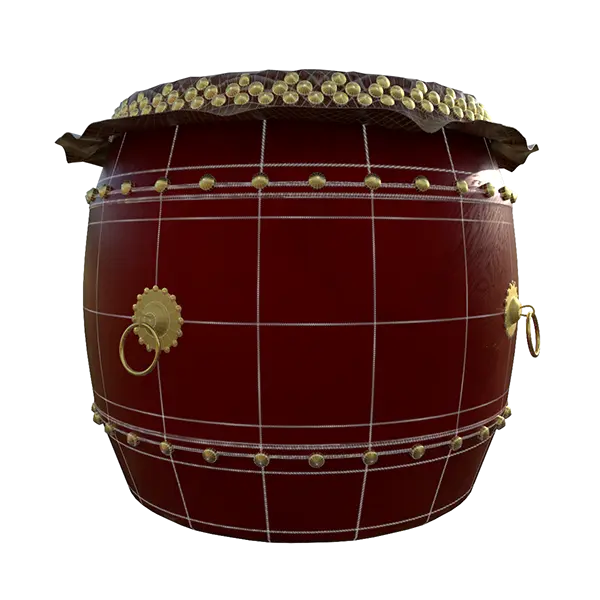
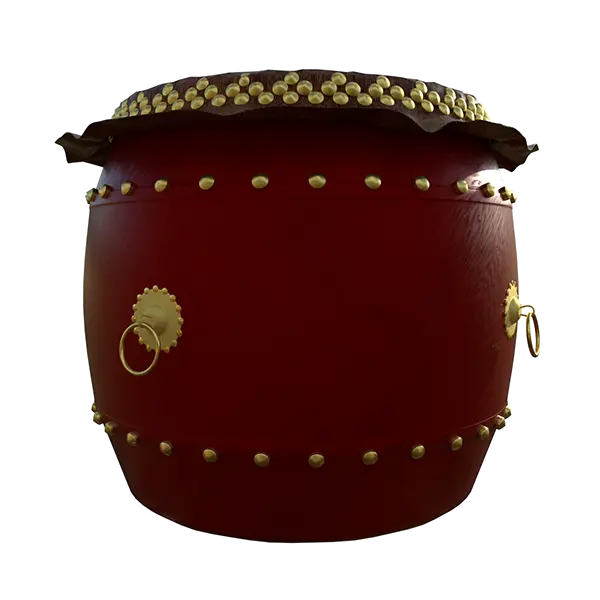
Refresh research statement, asset studies, and project covers

diff --git a/assets/app.js b/assets/app.js
@@ -54,7 +54,7 @@ const threeDProjects = [
     number: "01",
     title: "Still-Life Look Development",
     kicker: "LOOK DEVELOPMENT · RENDERING & SHADING",
-    description: "Still-life look development created as the final project for the Rendering & Shading class taught by Caleb Kicklighter and Jeff Nichols from DreamWorks Animation. Models were provided by the instructors; I developed the materials, lighting, mesh optimization and final presentation.",
+    description: "Still-life look development created as the final project for the Rendering & Shading class taught by Caleb Kicklighter and Jeff Nichols from DreamWorks Animation. Models were provided by the instructors; I developed the materials, lighting, mesh optimization, and final presentation.",
     tags: ["Substance 3D Painter", "Maya", "RenderMan", "Look development"],
     images: [
       ["/assets/3d/01-lookdev-final.webp", "Final warmly lit composition of the still-life scene"],
@@ -126,7 +126,7 @@ const footer = () => `
     <div class="footer-links">
       <a href="mailto:[email redacted]">[email redacted] ${icons.arrow}</a>
       <a href="https://github.com/skylartrangla" target="_blank" rel="noreferrer">GitHub ${icons.arrow}</a>
-      <a href="https://https://www.linkedin.com/in/skylar-trang-la//" target="_blank" rel="noreferrer">LinkedIn ${icons.arrow}</a>
+      <a href="https://www.linkedin.com/in/skylar-trang-la/" target="_blank" rel="noreferrer">LinkedIn ${icons.arrow}</a>
     </div>
     <p class="copyright">© ${new Date().getFullYear()} Skylar Trang La · Designed & coded from scratch</p>
   </footer>`;
@@ -175,7 +175,7 @@ const home = () => `
           <div><p class="project-kicker">DIGITAL TWIN · UX/UI</p><h3>Connected mobility simulation</h3><p>Cesium geospatial context, Unreal Mass AI crowds, and an in-vehicle interface prototype.</p><a class="text-link" href="/digital-twin/#mobility">See project <span>→</span></a></div>
         </article>
         <article class="project-card reveal">
-          ${projectVisual("ar", "Augmented reality coursework", "03")}
+          ${projectCover("/assets/covers/ar-projects.webp", "Three Unity augmented reality projects")}
           <div><p class="project-kicker">AR · UNITY · PHOTOGRAMMETRY</p><h3>Augmented reality studies</h3><p>Three coded AR experiences exploring interaction, spatial composition, and scanned assets.</p><a class="text-link" href="/digital-twin/#ar">See project <span>→</span></a></div>
         </article>
       </div>
@@ -203,18 +203,18 @@ const digitalTwin = () => `
       <div class="page-hero-aside reveal"><p>I prototype real-time systems where data, simulation, 3D environments, and human decisions meet.</p>${tagList(["Unreal Engine / Blueprints Visual Scripting", "Unity / C#", "MQTT / JSON", "Cesium", "Mass AI", "Maya", "Substance Painter"])}</div>
     </section>
     <section class="case-study" id="livestock">
-      ${projectCover("/assets/covers/digital-twin.webp", "BovineTwin sustainable livestock digital twin cover", "case-cover")}
+      ${projectCover("/assets/covers/digital-twin-2.webp", "BovineTwin digital twin development process", "case-cover")}
       <div class="case-layout">
-        <aside class="case-meta reveal"><p>ROLE</p><strong>Graduate Research Assistant<br>Digital Twin Developer</strong><p>CONTEXT</p><strong>AI for Sustainable Livestock System Lab<br>Texas A&M University</strong><p>STATUS</p><strong>Research in progress · 2025 - Present</strong></aside>
+        <aside class="case-meta reveal"><p>ROLE</p><strong>Graduate Research Assistant<br>Digital Twin Developer</strong><p>CONTEXT</p><strong>AI for Sustainable Livestock System Lab<br>Texas A&M University</strong><p>STATUS</p><strong>Research in progress · 2025—Present</strong></aside>
         <article class="case-copy reveal"><p class="eyebrow">CASE STUDY 01</p><h2>Making methane-energy partitioning visible by animal.</h2><p class="lead">BovineTwin combines an individual-level Mesa agent-based model with an interactive Unreal Engine 5.4 feedlot interface.</p><h3>The challenge</h3><p>Herd averages hide which animals drive methane-associated energy loss. The framework calibrates animal-level models and makes individual trajectories and mitigation scenarios inspectable in 3D.</p><h3>My contribution</h3><p>As a shared first author, I contributed conceptualization, methodology, software, data curation, visualization, investigation, writing, supervision, and project administration. I created 3D assets and developed the Unreal Engine interface and the target MQTT–JSON architecture. In this proof of concept, model outputs were transferred through CSV and Unreal DataTables; operational live-sensor validation is future work.</p><div class="process-row"><span>CALIBRATE<small>Individual records</small></span><b>→</b><span>SIMULATE<small>Mesa · Python</small></span><b>→</b><span>VISUALIZE<small>Unreal Engine 5.4</small></span><b>→</b><span>COMPARE<small>Mitigation scenarios</small></span></div>${tagList(["Unreal Engine 5.4", "Mesa / Python", "MQTT / JSON architecture", "CSV / DataTables", "3D Visualization"])}</article>
       </div>
     </section>
     <section class="case-study compact" id="mobility">
-      ${projectCover("/assets/covers/endeavr.webp", "ENDEAVR connected mobility digital twin cover", "case-cover")}
+      ${projectCover("/assets/covers/endeavr-2.webp", "ENDEAVR connected mobility and automotive interface work", "case-cover")}
       <div class="case-layout"><aside class="case-meta reveal"><p>ROLE</p><strong>Digital Design Intern</strong><p>ORGANIZATION</p><strong>ENDEAVR Institute</strong><p>YEAR</p><strong>2025</strong></aside><article class="case-copy reveal"><p class="eyebrow">CASE STUDY 02</p><h2>Connected mobility, from landscape to interface.</h2><p class="lead">An interactive prototype pairing geospatial context and crowd simulation with a three-mode in-vehicle UX concept.</p><p>I imported Google Earth data through Cesium, drew custom movement paths, and simulated crowds with Unreal Mass AI. In parallel, I translated technical requirements into wireframes for Self-driving, AI Training, and AI Driving modes, supported by a cohesive visual language.</p>${tagList(["Unreal Engine", "Cesium", "Mass AI", "UX/UI", "Crowd simulation"])}</article></div>
     </section>
     <section class="case-study compact" id="ar">
-      <div class="case-layout"><aside class="case-meta reveal"><p>FORMAT</p><strong>Three coded assignments</strong><p>FOCUS</p><strong>AR interaction & spatial storytelling</strong><p>MEDIA</p><strong>Three project game</strong></aside><article class="case-copy reveal"><p class="eyebrow">PROJECT COLLECTION 03</p><h2>Augmented reality studies.</h2><p class="lead">A three-part Unity series investigating how digital content can respond to real-world space.</p><p>I programmed the experiences in C# using Unity. The third assignment extends the pipeline with objects captured through photogrammetry, combining asset acquisition, optimization, interaction, and presentation.</p>${tagList(["Unity", "C#", "AR", "Photogrammetry", "Spatial interaction"])}</article></div>
+      <div class="case-layout"><aside class="case-meta reveal"><p>FORMAT</p><strong>Three coded assignments</strong><p>FOCUS</p><strong>AR interaction & spatial storytelling</strong><p>MEDIA</p><strong>Three game projects</strong></aside><article class="case-copy reveal"><p class="eyebrow">PROJECT COLLECTION 03</p><h2>Augmented reality studies.</h2><p class="lead">A three-part Unity series investigating how digital content can respond to real-world space.</p><p>I programmed the experiences in C# using Unity. The third assignment extends the pipeline with objects captured through photogrammetry, combining asset acquisition, optimization, interaction, and presentation.</p>${tagList(["Unity", "C#", "AR", "Photogrammetry", "Spatial interaction"])}</article></div>
       <div class="project-video-grid">
         ${videoCard("MfyWqeeUMc8", "TowAR", "3D AR · UNITY · C#")}
         ${videoCard("lXWZT_A-ezY", "MushJump", "3D AR · UNITY · C#")}
@@ -234,17 +234,17 @@ const generalist = () => `
   <main>
     <section class="page-hero generalist-hero">
       <div class="reveal"><p class="eyebrow">SPECIALIST PORTFOLIO / DIRECT LINK</p><h1>3D<br><em>Generalist</em></h1></div>
-      <div class="page-hero-aside reveal"><p>Gaming and animation environmental assets, built with a full understanding of modelling, UV unwrapping, look development, optimization, and the 3D production pipeline.</p>${tagList(["Unreal Engine", "Maya", "Substance 3D Painter", "3ds Max", "Renderman", "XGen", "Adobe"])}</div>
+      <div class="page-hero-aside reveal"><p>Gaming and animation environmental assets, built with a full understanding of modeling, UV unwrapping, look development, optimization, and the 3D production pipeline.</p>${tagList(["Unreal Engine", "Maya", "Substance 3D Painter", "3ds Max", "RenderMan", "XGen", "Adobe"])}</div>
     </section>
     <section class="section generalist-films">
       <div class="section-heading reveal"><p class="eyebrow">3D GENERALIST FILMS</p><h2>Environment, asset,<br><em>and motion craft.</em></h2></div>
-      <p class="section-intro reveal">Animation, layout, motion-capture, environment, and asset-turntable work - Separated here from the programming and AR films shown in Digital Twin & Interactive.</p>
+      <p class="section-intro reveal">Animation, layout, motion-capture, environment, and asset-turntable work—separated here from the programming and AR films shown in Digital Twin & Interactive.</p>
       <div class="project-video-grid">
         ${videoCard("Iomz45cYaFY", "The Guangdong Lion Dance", "SOLO CREATOR · MAYA · XGEN · SUBSTANCE PAINTER · UNREAL ENGINE · QUICK MAGIC AI · UNITY")}
         ${videoCard("GVcU2PL8bAs", "Shell You Be Mine?", "LAYOUT ARTIST · UNREAL ENGINE")}
         ${videoCard("0BbA_Cn4XRs", "Arrogance vs. Accuracy", "SOLO CREATOR · MOTIONBUILDER · MAYA · UNREAL ENGINE")}
         ${videoCard("qLj_8T69-k8", "Arctic Appetite", "ENVIRONMENT MODELER AND LAYOUT ARTIST · MAYA · SUBSTANCE PAINTER · ADOBE PREMIERE PRO")}
-        ${videoCard("mR1aZ-ybPnw", "The Seal & The Orcas", "ANIMATOR AND COMPOSITION DESIGNER · MAYA  · ADOBE PREMIERE PRO")}
+        ${videoCard("mR1aZ-ybPnw", "The Seal & The Orcas", "ANIMATOR AND COMPOSITION DESIGNER · MAYA · ADOBE PREMIERE PRO")}
       </div>
       <a class="text-link film-playlist-link" href="https://www.youtube.com/playlist?list=PL1tX9HxUBcES6xAiVwDfSMVhmwTR33M7Z" target="_blank" rel="noreferrer">Open full YouTube playlist <span>↗</span></a>
     </section>
@@ -303,7 +303,7 @@ const research = () => `
   <main>
     <section class="page-hero research-hero">
       <div class="reveal"><p class="eyebrow">RESEARCH PRACTICE / 04</p><h1>Research<br><em>& Publications</em></h1></div>
-      <div class="page-hero-aside reveal"><p>I study how real-time 3D visualization and digital twins can be applied in interdisciplinary areas to support humans' lives.</p>${tagList(["Digital twins", "Visualization", "3D", "Simulation", "Applied science"])}</div>
+      <div class="page-hero-aside reveal"><p>I study how real-time 3D visualization and digital twins can be applied across disciplines to support and improve people's lives.</p>${tagList(["Digital twins", "Visualization", "3D", "Simulation", "Applied science"])}</div>
     </section>
     <section class="section publication-list">
       <article class="publication featured-publication reveal">
@@ -325,7 +325,7 @@ const about = () => `
     </section>
     <section class="section about-layout">
       ${projectCover("/images/Portrait.JPG", "Portrait of Skylar La", "portrait-cover reveal")}
-      <div class="about-copy reveal"><p class="eyebrow">ABOUT</p><h2>I translate between<br><em>technical and visual worlds.</em></h2><p class="lead">My path through economics, multimedia, and visualization shaped a practice that combines analytical thinking with hands-on production.</p><p>I hold a Master of Science in Visualization from Texas A&M University, an Advanced Diploma in Multimedia Communications from Arena Multimedia, and a Bachelor’s degree in International Economics from Foreign Trade University. My work experience spans research laboratories, AR production, and university teaching related to 3D field.</p><p>I am particularly interested in digital twin and real-time visualization roles, followed by applied visualization research and focused 3D Generalist opportunities.</p></div>
+      <div class="about-copy reveal"><p class="eyebrow">ABOUT</p><h2>I translate between<br><em>technical and visual worlds.</em></h2><p class="lead">My path through economics, multimedia, and visualization shaped a practice that combines analytical thinking with hands-on production.</p><p>I hold a Master of Science in Visualization from Texas A&M University, an Advanced Diploma in Multimedia Communications from Arena Multimedia, and a bachelor’s degree in International Economics from Foreign Trade University. My work experience spans research laboratories, AR production, and university teaching related to the 3D field.</p><p>I am particularly interested in digital twin and real-time visualization roles, followed by applied visualization research and focused 3D Generalist opportunities.</p></div>
     </section>
     <section class="section resume-section">
       <div class="section-heading reveal"><p class="eyebrow">01 / EXPERIENCE</p><h2>Selected<br><em>experience.</em></h2></div>